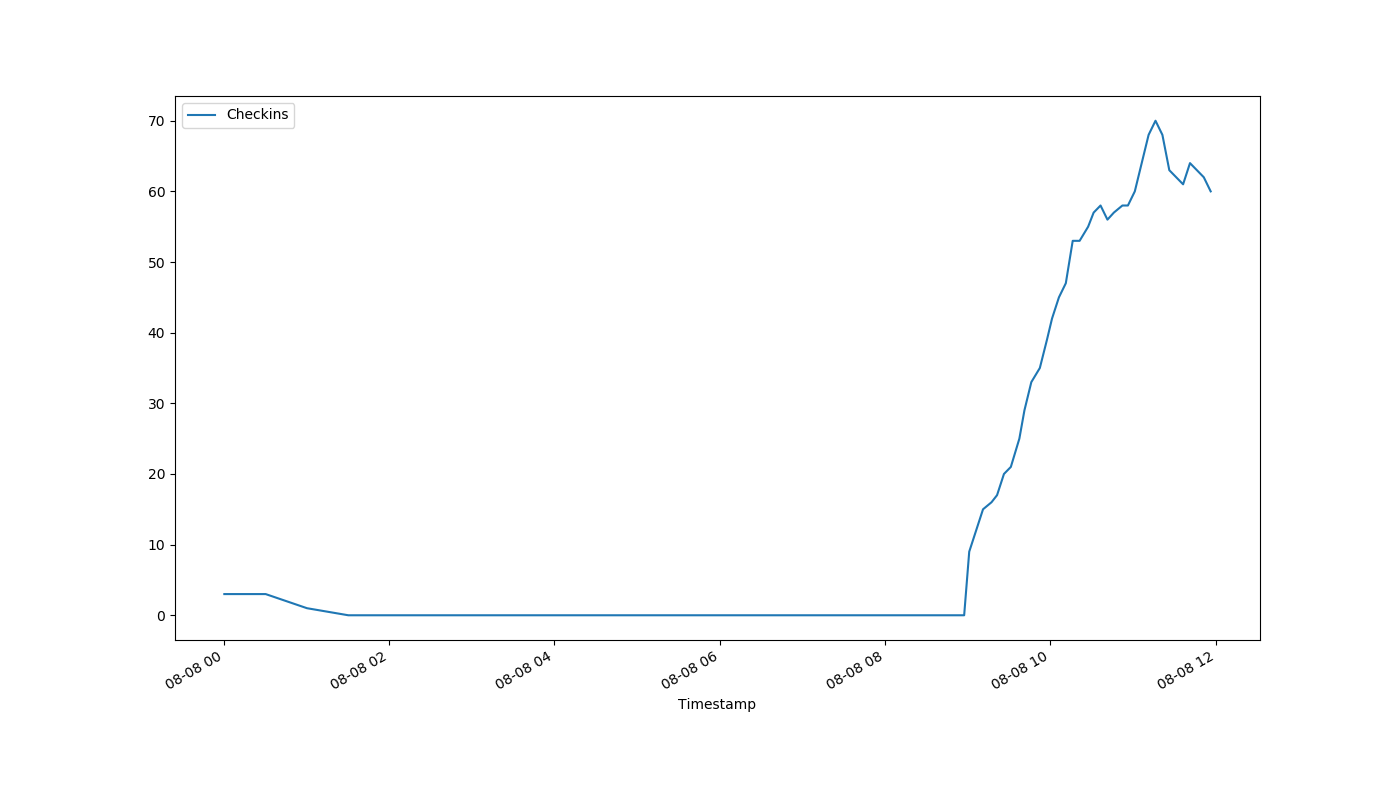
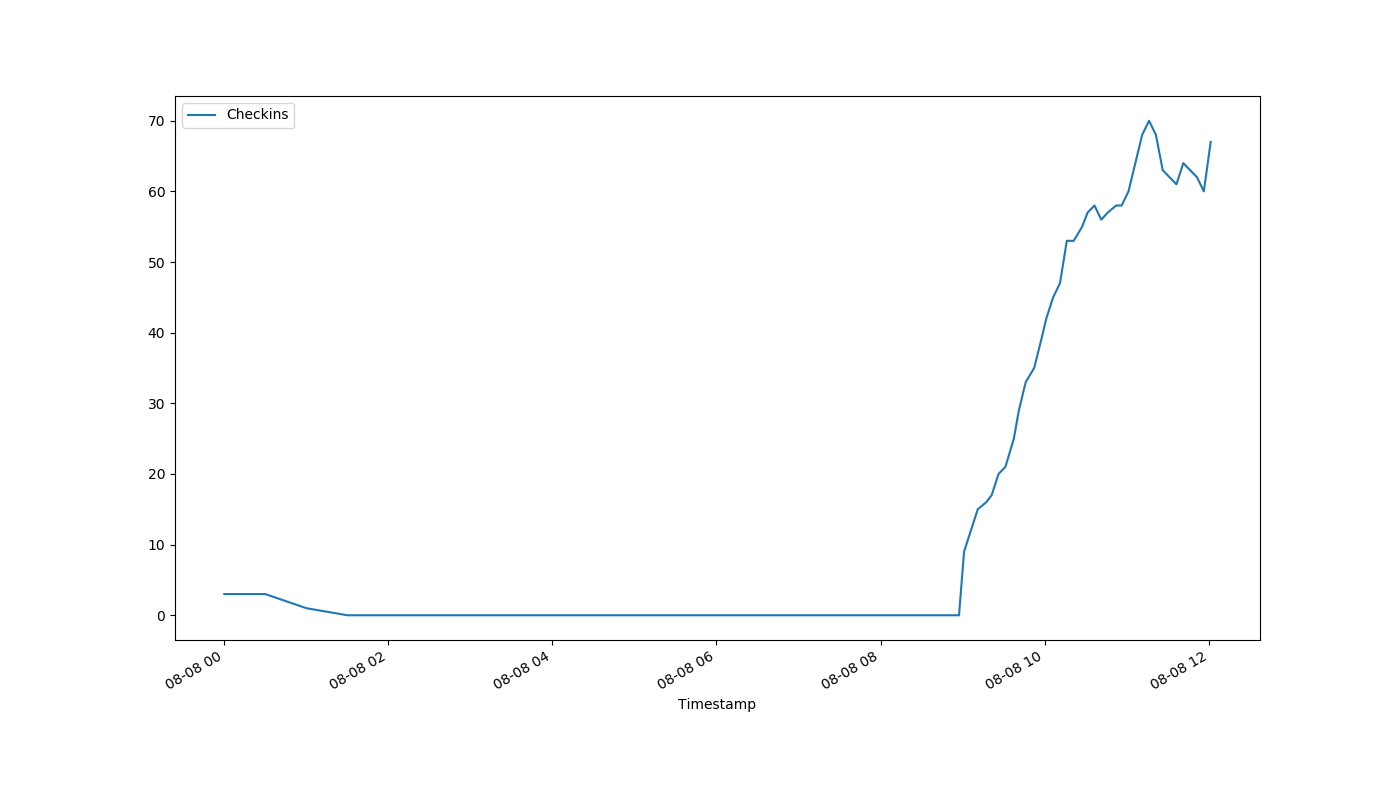
auto-Aug-08-12:02:58

diff --git a/index.html b/index.html
@@ -1,1 +1,1 @@
-<!DOCTYPE html><html><head><meta http-equiv="refresh" content="30"><link rel='stylesheet' href='holmcurrent.css'></head><body><p id='count'>60</p><div id='graph-wrap'><img id='graph' src='holmgraph-Aug-08.png'></div><p id='updated'>Last updated 11:57:10 / 11:56:15</p></body></html>
+<!DOCTYPE html><html><head><meta http-equiv="refresh" content="30"><link rel='stylesheet' href='holmcurrent.css'></head><body><p id='count'>67</p><div id='graph-wrap'><img id='graph' src='holmgraph-Aug-08.png'></div><p id='updated'>Last updated 12:02:10 / 12:01:16</p></body></html>
